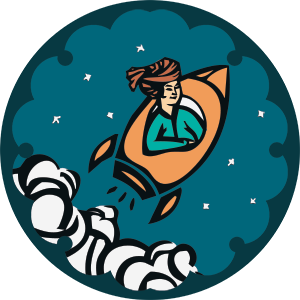
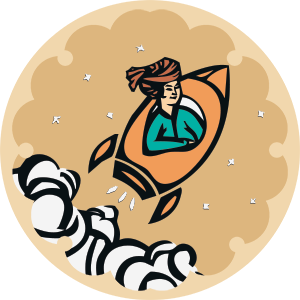
homepage launch photo changed again

diff --git a/content/template/register.html b/content/template/register.html
@@ -2,7 +2,7 @@
 
 {%if login and login.status == 'active'%}
    <div class="span3 offset2">
-    <img class="inestimable" src="{{url.static}}images/art/launch.png" alt='{%trans "We are inestimable"%}'>
+    <img class="inestimable" src="{{url.static}}images/art/launch2.png" alt='{%trans "We are inestimable"%}'>
    </div>
    <div class="span6">
     <h3>{%trans "Ask and Answer with Sarshomar"%}</h3>
@@ -11,7 +11,7 @@
 
 {%elseif login%}
    <div class="span3 offset2">
-    <img class="inestimable" src="{{url.static}}images/art/launch.png" alt='{%trans "We are inestimable"%}'>
+    <img class="inestimable" src="{{url.static}}images/art/launch2.png" alt='{%trans "We are inestimable"%}'>
    </div>
    <div class="span6">
     <h3>{%trans "Inspection and Answer"%}</h3>
